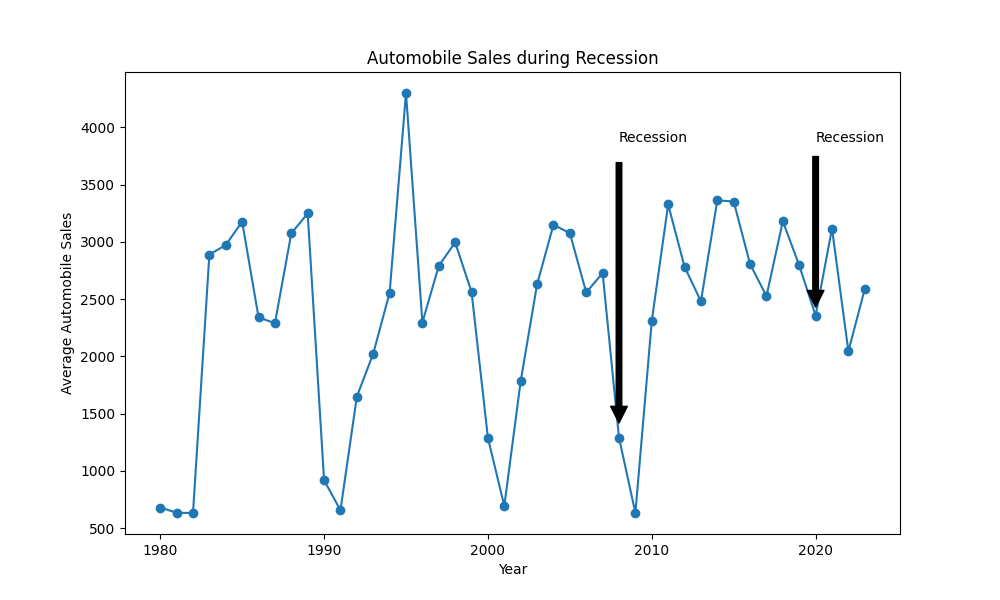
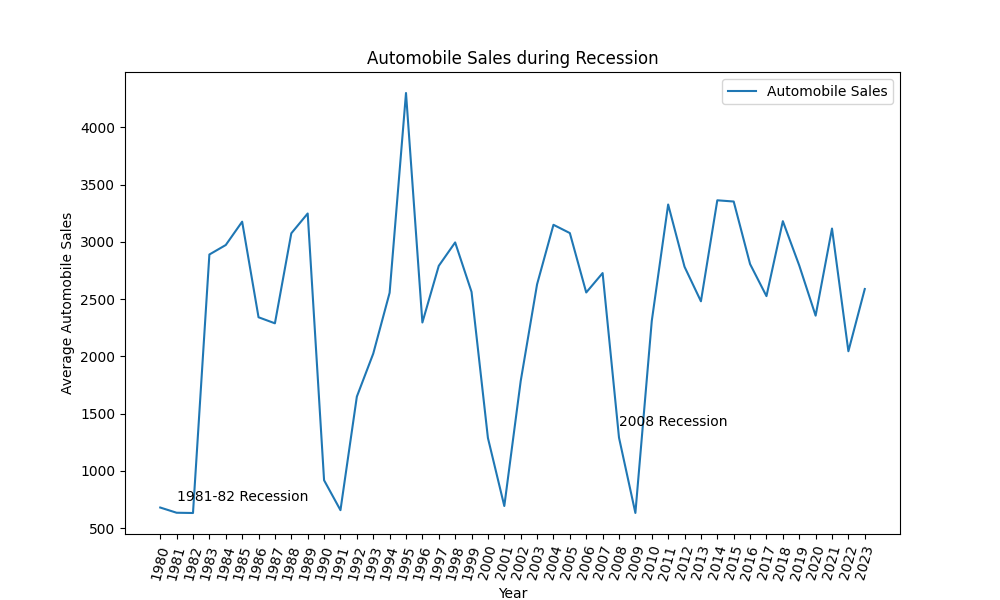
finalAssignment2.py
The code loads automobile sales data and plots average sales by year. It shows all years from 1980 to 2023 on the x-axis and marks recession years on the plot.

diff --git a/finalAssignment2.py b/finalAssignment2.py
@@ -1,0 +1,37 @@
+import pandas as pd
+import matplotlib.pyplot as plt
+import requests
+import io
+
+# Importing Data
+URL = "https://cf-courses-data.s3.us.cloud-object-storage.appdomain.cloud/IBMDeveloperSkillsNetwork-DV0101EN-SkillsNetwork/Data%20Files/historical_automobile_sales.csv"
+response = requests.get(URL)
+text = io.StringIO(response.text)
+
+df = pd.read_csv(text)
+print('Data downloaded and read into a dataframe!')
+
+# Ensure 'Year' is converted to datetime
+df['Year'] = pd.to_datetime(df['Year'], format='%Y')
+df.set_index('Year', inplace=True)
+
+# Group data by 'Year' and calculate the mean of 'Automobile_Sales'
+df_line = df.groupby(df.index.year)['Automobile_Sales'].mean()
+
+# Create the plot
+plt.figure(figsize=(10, 6))
+df_line.plot(kind='line')
+
+# Customize the plot
+plt.xticks(list(range(1980, 2024)), rotation=75)
+plt.xlabel('Year')
+plt.ylabel('Average Automobile Sales')
+plt.title('Automobile Sales during Recession')
+
+# Add annotations for specific years of recession
+plt.text(1981, df_line.loc[1981] + 100, '1981-82 Recession', fontsize=10)
+plt.text(2008, df_line.loc[2008] + 100, '2008 Recession', fontsize=10)
+
+plt.legend(['Automobile Sales'])
+plt.savefig("Line_Plot_1.png")
+plt.show()
